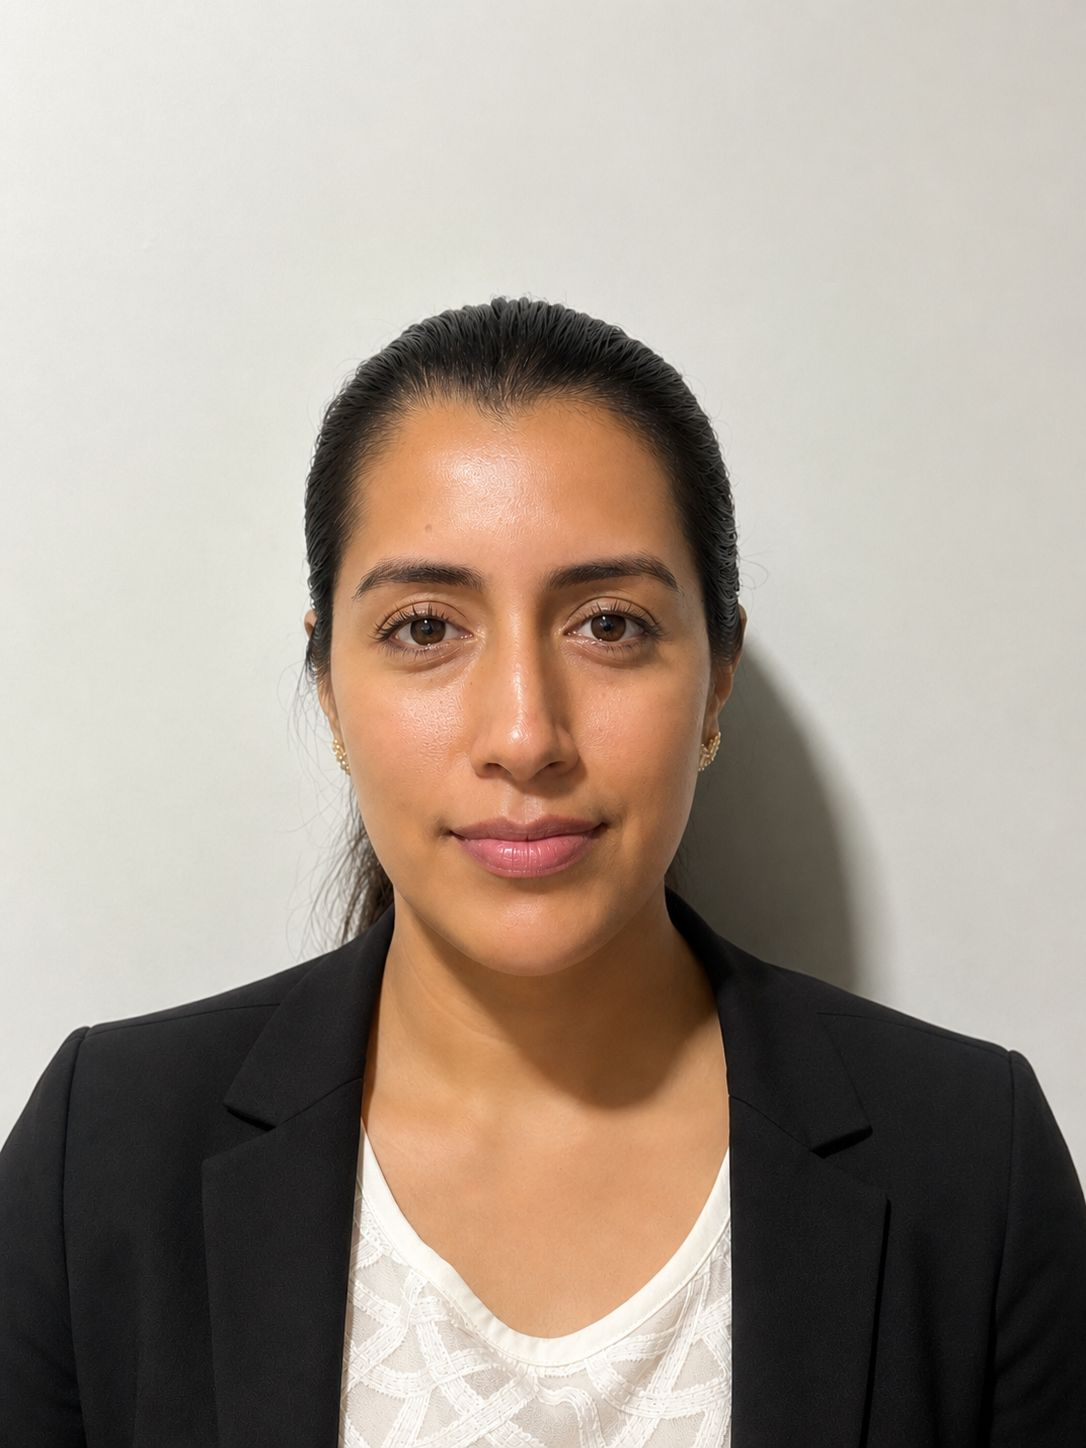
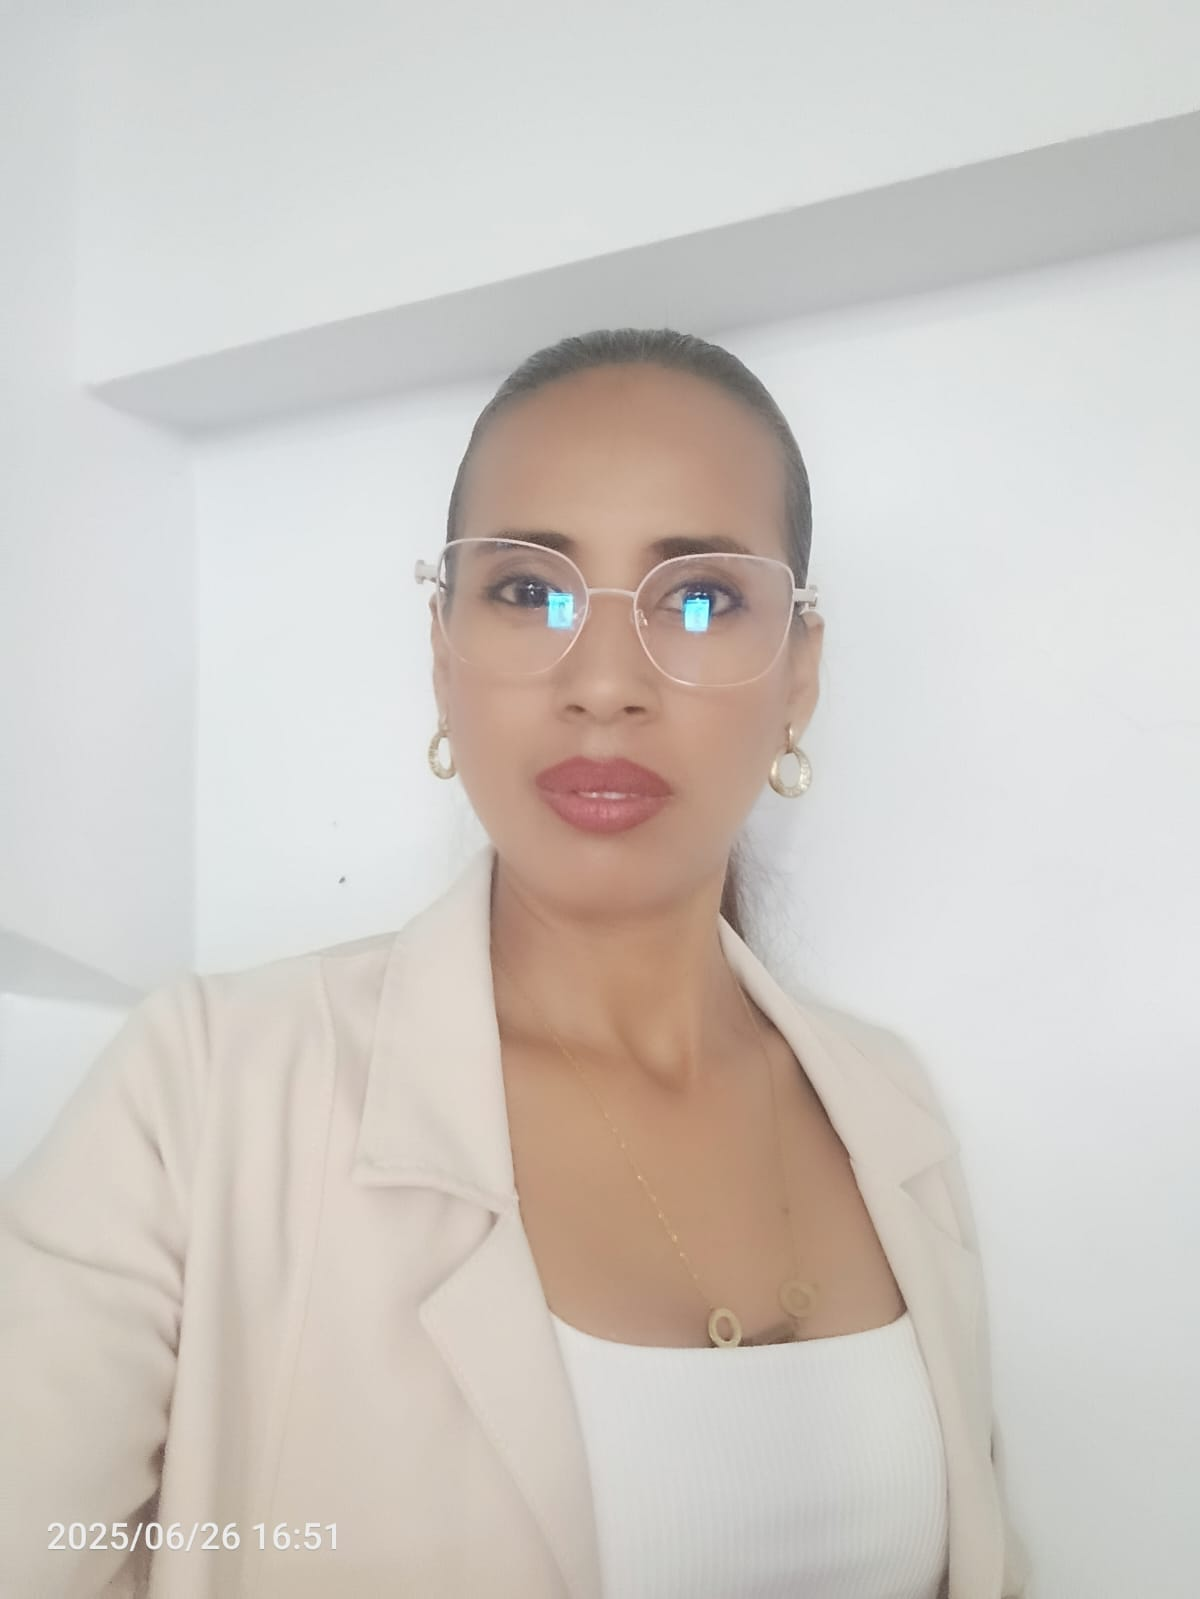
Cambio de vocal 2

diff --git a/la-pequena-zarahy/index.html b/la-pequena-zarahy/index.html
@@ -167,15 +167,16 @@
         <div class="section-header" style="margin-bottom: 40px;">
           <div class="section-badge purple">Quiénes nos lideran</div>
           <h2 class="section-title">Nuestra Directiva</h2>
-          <p class="section-sub" style="margin: 0 auto;">El equipo que guía cada decisión con liderazgo, compromiso y vocación de servicio.</p>
+          <p class="section-sub" style="margin: 0 auto;">El equipo que guía cada decisión con liderazgo, compromiso y
+            vocación de servicio.</p>
         </div>
 
         <div class="directiva-grid">
           <!-- Presidenta -->
           <div class="directiva-card reveal">
             <div class="directiva-photo-wrap">
-              <img src="varios/directiva/presidenta.jpeg" alt="Gardenia Guerrero Guzmán" 
-                onerror="if(this.src.endsWith('.jpeg')){this.src=this.src.replace('.jpeg','.png')}else{this.style.display='none'; this.nextElementSibling.style.display='flex'}">
+              <img src="varios/directiva/presidenta.jpeg?v=1.0" alt="Gardenia Guerrero Guzmán"
+                onerror="if(this.src.includes('.jpeg')){this.src=this.src.replace('.jpeg','.png')}else{this.style.display='none'; this.nextElementSibling.style.display='flex'}">
               <div class="directiva-avatar" style="display:none">👤</div>
             </div>
             <span class="directiva-badge presidente">Presidenta</span>
@@ -185,8 +186,8 @@
           <!-- Vicepresidente -->
           <div class="directiva-card reveal">
             <div class="directiva-photo-wrap">
-              <img src="varios/directiva/vicepresidente.jpeg" alt="José Rodriguez Tacuri" 
-                onerror="if(this.src.endsWith('.jpeg')){this.src=this.src.replace('.jpeg','.png')}else{this.style.display='none'; this.nextElementSibling.style.display='flex'}">
+              <img src="varios/directiva/vicepresidente.jpeg?v=1.0" alt="José Rodriguez Tacuri"
+                onerror="if(this.src.includes('.jpeg')){this.src=this.src.replace('.jpeg','.png')}else{this.style.display='none'; this.nextElementSibling.style.display='flex'}">
               <div class="directiva-avatar" style="display:none">👤</div>
             </div>
             <span class="directiva-badge vicepresidente">Vicepresidente</span>
@@ -196,8 +197,8 @@
           <!-- Secretaria -->
           <div class="directiva-card reveal">
             <div class="directiva-photo-wrap">
-              <img src="varios/directiva/secretaria.jpeg" alt="Betzi Gómez Rojas" 
-                onerror="if(this.src.endsWith('.jpeg')){this.src=this.src.replace('.jpeg','.png')}else{this.style.display='none'; this.nextElementSibling.style.display='flex'}">
+              <img src="varios/directiva/secretaria.jpeg?v=1.0" alt="Betzi Gómez Rojas"
+                onerror="if(this.src.includes('.jpeg')){this.src=this.src.replace('.jpeg','.png')}else{this.style.display='none'; this.nextElementSibling.style.display='flex'}">
               <div class="directiva-avatar" style="display:none">👤</div>
             </div>
             <span class="directiva-badge secretaria">Secretaria</span>
@@ -207,8 +208,8 @@
           <!-- Tesorero -->
           <div class="directiva-card reveal">
             <div class="directiva-photo-wrap">
-              <img src="varios/directiva/tesorero.jpeg" alt="Brayan Rodríguez Calderón" 
-                onerror="if(this.src.endsWith('.jpeg')){this.src=this.src.replace('.jpeg','.png')}else{this.style.display='none'; this.nextElementSibling.style.display='flex'}">
+              <img src="varios/directiva/tesorero.jpeg?v=1.0" alt="Brayan Rodríguez Calderón"
+                onerror="if(this.src.includes('.jpeg')){this.src=this.src.replace('.jpeg','.png')}else{this.style.display='none'; this.nextElementSibling.style.display='flex'}">
               <div class="directiva-avatar" style="display:none">👤</div>
             </div>
             <span class="directiva-badge tesorero">Tesorero</span>
@@ -218,8 +219,8 @@
           <!-- Vocal 1 -->
           <div class="directiva-card reveal">
             <div class="directiva-photo-wrap">
-              <img src="varios/directiva/vocal1.jpeg" alt="Adriana Ronquillo González" 
-                onerror="if(this.src.endsWith('.jpeg')){this.src=this.src.replace('.jpeg','.png')}else{this.style.display='none'; this.nextElementSibling.style.display='flex'}">
+              <img src="varios/directiva/vocal1.jpeg?v=1.0" alt="Adriana Ronquillo González"
+                onerror="if(this.src.includes('.jpeg')){this.src=this.src.replace('.jpeg','.png')}else{this.style.display='none'; this.nextElementSibling.style.display='flex'}">
               <div class="directiva-avatar" style="display:none">👤</div>
             </div>
             <span class="directiva-badge vocal">Vocal</span>
@@ -229,12 +230,12 @@
           <!-- Vocal 2 -->
           <div class="directiva-card reveal">
             <div class="directiva-photo-wrap">
-              <img src="varios/directiva/vocal2.jpeg" alt="Cinthya Loja Porras" 
-                onerror="if(this.src.endsWith('.jpeg')){this.src=this.src.replace('.jpeg','.png')}else{this.style.display='none'; this.nextElementSibling.style.display='flex'}">
+              <img src="varios/directiva/vocal2.jpeg?v=1.0" alt="Mónica Zenaida Vera Cagua"
+                onerror="if(this.src.includes('.jpeg')){this.src=this.src.replace('.jpeg','.png')}else{this.style.display='none'; this.nextElementSibling.style.display='flex'}">
               <div class="directiva-avatar" style="display:none">👤</div>
             </div>
             <span class="directiva-badge vocal">Vocal</span>
-            <h4 class="directiva-name">Cinthya Gabriela Loja Porras</h4>
+            <h4 class="directiva-name">Mónica Zenaida Vera Cagua</h4>
           </div>
         </div>
       </div>
@@ -413,7 +414,8 @@
         <p class="section-sub">Presentes en las provincias donde el impacto es más necesario.</p>
       </div>
       <div class="coverage-grid" id="cobertura-grid">
-        <p style="text-align:center; color: var(--text-mid); grid-column: 1/-1;">Cargando localidades de cobertura...</p>
+        <p style="text-align:center; color: var(--text-mid); grid-column: 1/-1;">Cargando localidades de cobertura...
+        </p>
       </div>
       <div class="coverage-footer reveal"
         style="margin-top: 40px; text-align: center; background: #fdf2f8; padding: 15px; border-radius: 50px; border: 1px dashed var(--pink); color: var(--text-dark); font-size: 0.9rem;">
